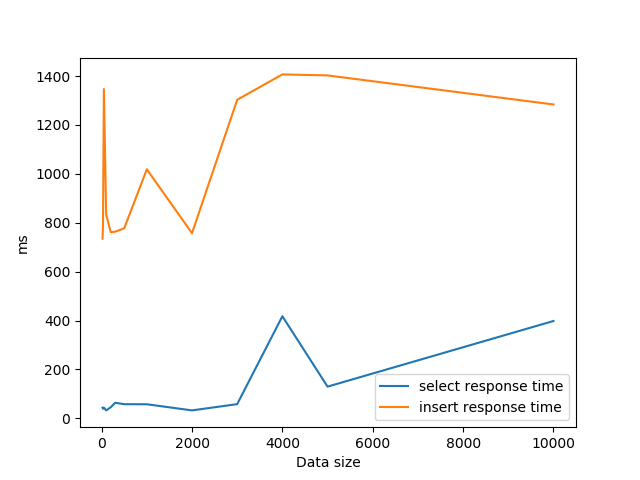
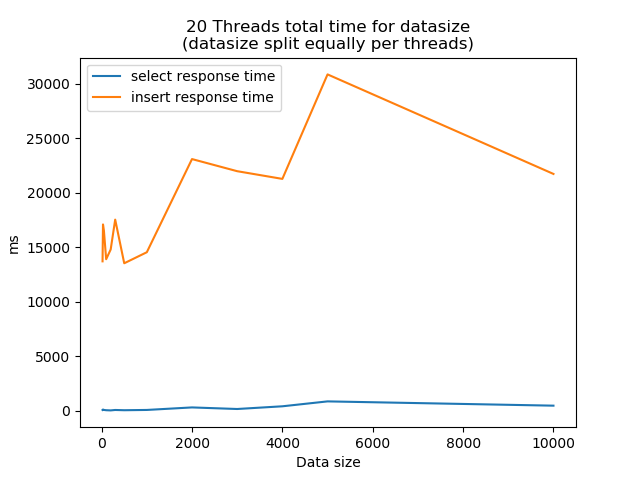
measure total time not mean time/thread

diff --git a/RTSD/cratedb.py b/RTSD/cratedb.py
@@ -136,8 +136,8 @@ def test_insert(mycursor,datasize,threads_no):
         exec_time+=val["exec"]
         succes+=(val["succes"]/val["total"])
     succes*=100
-    resp_time/=len(timevals)
-    exec_time/=len(timevals)
+    #resp_time/=len(timevals)
+    #exec_time/=len(timevals)
     succes/=len(timevals)
     print("select execution time "+str(exec_time))
     print("select response time "+str(resp_time))
@@ -157,10 +157,11 @@ cursor = connection.cursor()
 threads_no=[1,5,10,20,50,100]
 datasize=[10,20,30,50,100,200,300,500,1000,2000,3000,4000,5000,10000]
 tests=[]
-for ds in datasize :
-    for th in threads_no:
+for th in threads_no:
+    for ds in datasize :
         if ds>=th:
             tests.append(test(cursor,ds,th))
+cursor.close()
 file = open("result_cratedb.txt", "w")
 json.dump(tests,file)
 #file.write(str(tests))

diff --git a/RTSD/plottestgraph.py b/RTSD/plottestgraph.py
@@ -38,6 +38,7 @@ def plot_cratedb(threads_no,datasize):
         #plt.plot(x,y_sel_exec,label="select execution time")
         plt.plot(x,y_ins_resp,label="insert response time")
         #plt.plot(x,y_ins_exec,label="insert execution time")
+        plt.title(str(th)+" Threads total time for datasize\n(datasize split equally per threads)")
         plt.legend()
         plt.savefig("cratedb"+str(th)+".png")
         plt.close()
